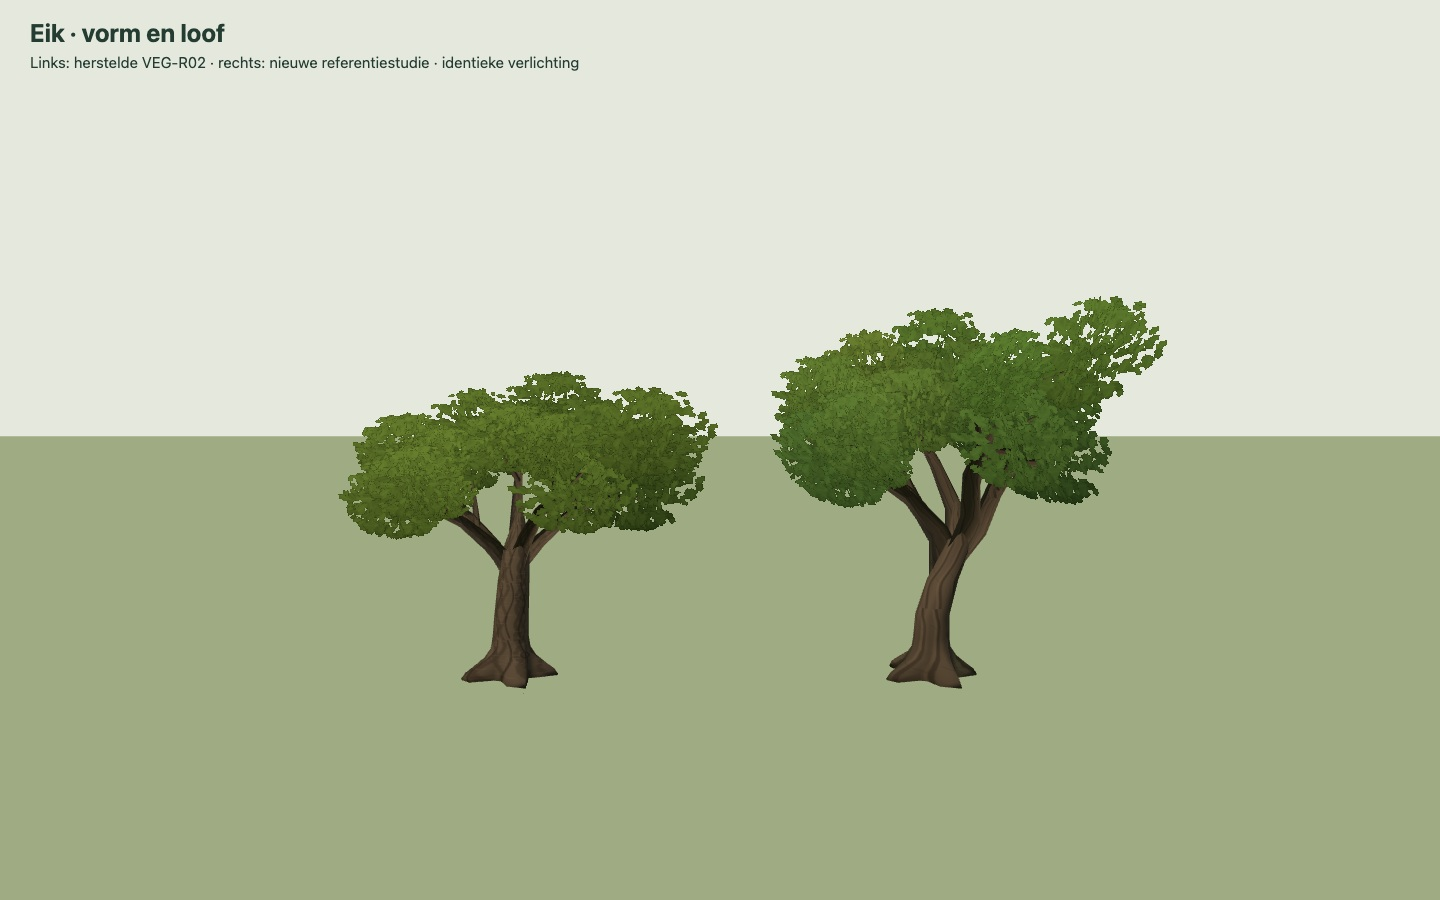
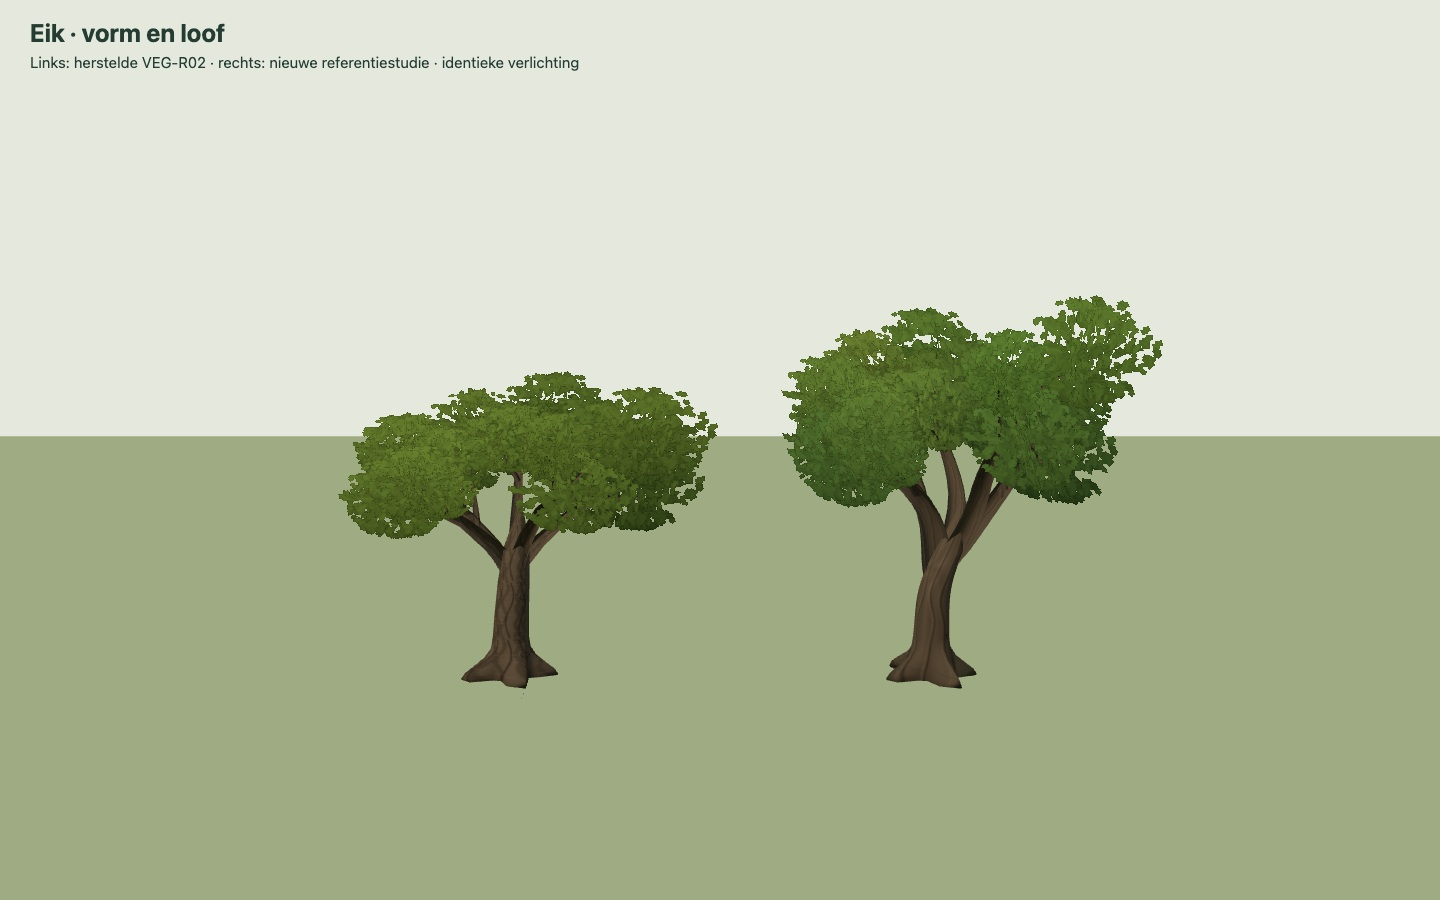
Smooth oak trunk curvature and repeating bark flow

Changed region(s): [[0.5312, 0.3111, 0.8125, 0.6844]]

diff --git a/src/world/woodkit.ts b/src/world/woodkit.ts
@@ -287,14 +287,14 @@ function flareK(a: number, y: number, lobes: { a: number; w: number }[], flare: 
   return k + F * 0.08 * (1 + Math.sin(a * 3 + 1.3)) * 0.5; // a little general swell between the ridges
 }
 
-function flaredTrunk(path: P3[], radius: (t: number) => number, lobes: { a: number; w: number }[], flare: number, flareH: number, radial: number, rows: number, vScale: number) {
+function flaredTrunk(path: P3[], radius: (t: number) => number, lobes: { a: number; w: number }[], flare: number, flareH: number, radial: number, rows: number, vScale: number, detailedFlare = rows >= 6) {
   const curve = new THREE.CatmullRomCurve3(path.map(vec), false, 'centripetal');
   const len = curve.getLength();
   const pos: number[] = [], uv: number[] = [], idx: number[] = [];
   const P = new THREE.Vector3();
   // ring heights: dense through the flare (where the buttresses change fastest), then even up the trunk
   const y0 = path[0][1], y1 = path[path.length - 1][1], base = [y0, -0.2, 0, 0.14, 0.3, 0.48, 0.7, 0.95, flareH + 0.25].filter((y) => y > y0 && y < y1 - 0.5);
-  const fine = rows < 6 ? base.filter((_, i) => i % 3 === 0) : base; // coarse LODs: every third flare ring
+  const fine = !detailedFlare ? base.filter((_, i) => i % 3 === 0) : base; // coarse LODs: every third flare ring
   const top = fine[fine.length - 1] ?? y0, ys = [y0, ...fine.filter((y) => y > y0)];
   const rest = Math.max(1, rows - ys.length + 1);
   for (let i = 1; i <= rest; i++) ys.push(top + ((y1 - top) * i) / rest);
@@ -398,14 +398,14 @@ function growBroadleaf(sp: Broadleaf): Skeleton {
   return { trunk: { path: trunkPath, radius, lobes }, branches, clusters };
 }
 
-function emitBroadleaf(sp: Broadleaf, sk: Skeleton, lod: Lod, continuous: boolean | 'outline' = false): Model {
+function emitBroadleaf(sp: Broadleaf, sk: Skeleton, lod: Lod, continuous: boolean | 'outline' = false, smoothFork = false): Model {
   const near = lod === 'near', xfar = lod === 'xfar', far = lod === 'far' || xfar;
   const girth = THREE.MathUtils.clamp(sp.trunk[0] / 0.45, 0.6, 1); // slim trunks need fewer sides
-  const wood: THREE.BufferGeometry[] = [flaredTrunk(sk.trunk.path, sk.trunk.radius, sk.trunk.lobes, sp.flare, 1.25, xfar ? 5 : Math.round((near ? 20 : far ? 6 : 9) * girth), near ? 11 : far ? 3 : 4, sp.vScale)];
+  const wood: THREE.BufferGeometry[] = [flaredTrunk(sk.trunk.path, sk.trunk.radius, sk.trunk.lobes, sp.flare, 1.25, xfar ? 5 : Math.round((near ? 20 : far ? 6 : 9) * girth), smoothFork ? (near ? 28 : far ? 9 : 16) : near ? 11 : far ? 3 : 4, sp.vScale, near)];
   for (const b of sk.branches) {
     if (!near && b.level === 2) continue; // mid/far: limbs only; side branches are hidden in the foliage at that distance
     if (xfar && !continuous) continue; // continuity prototype retains the primary branch skeleton
-    wood.push(taperTube(b.pts, b.r, { radial: near ? (b.level === 1 ? 6 : 3) : far ? 3 : 4, rows: near ? (b.level === 1 ? 4 : 3) : far ? 1 : 2, vScale: 1.2 }));
+    wood.push(taperTube(b.pts, b.r, { radial: near ? (b.level === 1 ? 6 : 3) : far ? 3 : 4, rows: smoothFork ? (near ? (b.level === 1 ? 12 : 5) : far ? 4 : 7) : near ? (b.level === 1 ? 4 : 3) : far ? 1 : 2, vScale: 1.2 }));
   }
   const crownC = sk.clusters.reduce((s, k) => s.add(k.c), new THREE.Vector3()).divideScalar(sk.clusters.length);
   const crownR = Math.max(...sk.clusters.map((k) => k.c.distanceTo(crownC) + Math.max(...k.r)));
@@ -478,7 +478,7 @@ export function referenceTreeModel(species: TreeSpecies, variant: number, lod: L
 export function oakSculptModel(variant: number, lod: Lod, continuous: boolean | 'outline' = 'outline'): Model {
   const v = ((variant % 3) + 3) % 3, original = OAKS[v];
   const sp = { ...original, limbR: .84, limbArch: .46, limbEl: [original.limbEl[0] + .10, original.limbEl[1] + .08] as [number, number] };
-  const sk = growBroadleaf(sp), model = emitBroadleaf(sp, sk, lod, continuous);
+  const sk = growBroadleaf(sp), model = emitBroadleaf(sp, sk, lod, continuous, true);
   model.leaves.dispose();
   const palettes = [
     { shade: '#35553b', green: '#6d963f', warm: '#afa144', warmth: .28 },
@@ -494,7 +494,8 @@ export function oakSculptModel(variant: number, lod: Lod, continuous: boolean | 
       const t = THREE.MathUtils.smoothstep(y, 1.6, 4.7);
       const angle = t * (.18 * Math.sin(y * .48 + v * 1.9));
       const c = Math.cos(angle), s = Math.sin(angle);
-      const bend = THREE.MathUtils.smoothstep(y, 1.6, 3.0) * .70 * Math.sin((y - 1.6) * 1.0 + v * 1.7);
+      // Ease into the bend without introducing a short, sharp change of curvature above the straight foot.
+      const bend = THREE.MathUtils.smoothstep(y, 1.6, 4.2) * .70 * Math.sin((y - 1.6) * .70 + v * 1.7);
       p.setXYZ(i, c * x - s * z + bend, y + Math.max(0, y - original.H) * .25,
         s * x + c * z + t * .21 * Math.sin(y * .7 + v));
       if (g === model.leaves) {
@@ -508,6 +509,16 @@ export function oakSculptModel(variant: number, lod: Lod, continuous: boolean | 
       const uv = g.attributes.uv as THREE.BufferAttribute;
       for (let i = 0; i < uv.count; i++) uv.setX(i, 16 + uv.getX(i));
       g.computeVertexNormals();
+      // UV seam vertices are separate, but must share a normal to avoid a hard lighting stripe.
+      const sums = new Map<string, THREE.Vector3>();
+      const keyAt = (i: number) => `${Math.round(p.getX(i) * 1e5)},${Math.round(p.getY(i) * 1e5)},${Math.round(p.getZ(i) * 1e5)}`;
+      for (let i = 0; i < p.count; i++) {
+        const key = keyAt(i), sum = sums.get(key) ?? new THREE.Vector3();
+        sum.add(new THREE.Vector3().fromBufferAttribute(normals, i)); sums.set(key, sum);
+      }
+      for (let i = 0; i < p.count; i++) {
+        const n = sums.get(keyAt(i))!.clone().normalize(); normals.setXYZ(i, n.x, n.y, n.z);
+      }
       const colours = g.attributes.color as THREE.BufferAttribute;
       for (let i = 0; i < p.count; i++) {
         const x = p.getX(i), y = p.getY(i), z = p.getZ(i), a = Math.atan2(z, x);
@@ -1303,9 +1314,12 @@ export function woodMats(): WoodMats {
   const oakBark = TREE_ART === 'oak-r03' ? canvasTex(256, 512, (x, r) => {
     // Long, softly bevelled furrows follow the trunk, with a few interrupted bark seams.
     x.fillStyle = grey(.82); x.fillRect(0, 0, 256, 512);
-    for (let col = -1; col < 10; col++) {
-      const cx = col * 29 + r() * 5, phase = r() * 6.28, width = 3 + r() * 3;
-      const line = (y: number) => cx + Math.sin(y * .014 + phase) * 7 + Math.sin(y * .031 + phase) * 2;
+    for (let col = 0; col < 8; col++) {
+      const cx = col * 32 + r() * 5, phase = r() * 6.28, width = 3 + r() * 3;
+      // Exact periods join the grooves across the repeated tile in both directions.
+      const line = (y: number) => cx + Math.sin(y * Math.PI * 2 / 512 + phase) * 7 + Math.sin(y * Math.PI * 4 / 512 + phase) * 2;
+      for (const wrap of [-256, 0, 256]) {
+      x.save(); x.translate(wrap, 0);
       x.fillStyle = grey(.60 + r() * .07); x.beginPath();
       for (let y = -16; y <= 528; y += 16) { if (y === -16) x.moveTo(line(y), y); else x.lineTo(line(y), y); }
       for (let y = 528; y >= -16; y -= 16) x.lineTo(line(y) + width, y);
@@ -1318,13 +1332,14 @@ export function woodMats(): WoodMats {
         const y = 80 + i * 240 + r() * 55;
         x.strokeStyle = grey(.67, .65); x.lineWidth = 1.5; x.beginPath(); x.moveTo(line(y), y); x.quadraticCurveTo(line(y) + 12, y - 9, line(y) + 22, y - 35); x.stroke();
       }
+      x.restore();
+      }
     }
     for (const [cx, cy] of [[56, 160], [184, 395]]) {
       x.strokeStyle = grey(.62); x.lineWidth = 3; x.beginPath(); x.ellipse(cx,cy,9,22,.2,0,Math.PI*2); x.stroke();
       x.fillStyle = grey(.52); x.beginPath(); x.ellipse(cx,cy,3,10,.2,0,Math.PI*2); x.fill();
     }
   }, 23017) : null;
-  if (oakBark) oakBark.wrapS = THREE.ClampToEdgeWrapping;
   // foliage UVs (u ≥ LEAF_U) repeat inside the leaf column; gradients from the unwrapped UV keep mip selection
   // continuous across the wrap (no seams); bark UVs are sampled as usual
   tree.onBeforeCompile = (sh) => {
@@ -1333,7 +1348,7 @@ export function woodMats(): WoodMats {
     sh.fragmentShader = sh.fragmentShader.replace('#include <map_fragment>', `#ifdef USE_MAP
   vec2 tUv = vMapUv;
   vec4 sampledDiffuseColor;
-  ${oakBark ? 'if (tUv.x > 15.0 && tUv.x < 17.0) { sampledDiffuseColor = texture2D(flwOakBark, vec2((tUv.x - 16.0) * 4.0, tUv.y * .65)); } else' : ''}
+  ${oakBark ? `if (tUv.x > 15.0 && tUv.x < 17.0) { sampledDiffuseColor = texture2D(flwOakBark, vec2(((tUv.x - 16.0) * 4.0 - ${GUT}) / ${1 - 2 * GUT}, tUv.y * .65)); } else` : ''}
   ${sprays ? `if (tUv.x > 127.0) { ${SPRAY_SAMPLE} sampledDiffuseColor = texture2D(flwSprays, flwAtlasUv); if (sampledDiffuseColor.a < 0.4) discard; } else` : ''}
   if (tUv.x > ${(LEAF_U / 2).toFixed(1)}) {
     vec2 lUv = vec2(fract(tUv.x), tUv.y * 0.5);

diff --git a/docs/veg-r03/oak/README.md b/docs/veg-r03/oak/README.md
@@ -16,15 +16,15 @@ The existing recovered style remains the default. The candidate is selected with
 
 ## Checks
 
-Typecheck, all 303 unit tests, the four unchanged budget-policy tests and production build pass (existing bundle-size warning). The two added model tests check lower-trunk compatibility, finite/bounded geometry, stable mid/far position and colour, and distinct palettes. The model topology budget is unchanged.
+Typecheck, all 303 unit tests, the four unchanged budget-policy tests and production build pass (existing bundle-size warning). The two added model tests check lower-trunk compatibility, finite/bounded geometry, stable mid/far position and colour, and distinct palettes. The flow correction increases longitudinal trunk/branch sampling; foliage topology is unchanged.
 
 Twelve fresh game render records: three poses × recovered/candidate × multi-draw/instanced. No recorded page errors, console errors, shader failures or WebGL errors. Placement inventories match and candidate low-quality camera triangles match between rendering paths.
 
 | View | Recovered triangles | Candidate triangles | Candidate calls multi / fallback |
 | --- | ---: | ---: | ---: |
-| dense | 309,354 | 309,354 | 59 / 119 |
-| garden | 185,216 | 185,216 | 25 / 52 |
-| boslust | 351,322 | 351,628 | 91 / 138 |
+| dense | 309,354 | 340,384 | 59 / 119 |
+| garden | 185,216 | 192,544 | 25 / 52 |
+| boslust | 351,322 | 378,718 | 91 / 138 |
 
 All three sampled candidate views fit the existing 150-call / 750k ceiling. This is a small comparison matrix, not an estate-wide, portrait, full puzzle-route or physical-phone acceptance test. No budget threshold was changed. Crown silhouettes changed, so sign/clue visibility still needs a complete route review before activation.
 
@@ -33,3 +33,10 @@ Reproduce with `CHROMIUM_EXECUTABLE_PATH=/path/to/chromium node scripts/veg-r03-
 ## Next art passes
 
 Review the oak form and colour grouping, then refine beech with smoother grey bark and its own rounded branching; pine with a taller trunk, warm upper bark and evergreen needle shelves; keep birch as the accepted style anchor and add restrained green/yellow variation. After the tree pass, continue with bushes, logs/stumps, ground plants and grass, with each family judged in the actual game.
+
+
+## Focused bark-flow correction
+
+Owner feedback identified broken flow on the main trunk. The correction adds longitudinal samples through the S-bend and primary forks, eases the bend over a longer interval, averages normals across coincident UV seam vertices, makes the painted grooves periodic in both texture directions, and removes gutter cropping from the dedicated repeating oak bark tile. This addresses angular interpolation and visible repeat/lighting seams. The fork still consists of intersecting trunk/branch surfaces; this is not a claim of a fully retopologized junction.
+
+`before-flow-fix.jpg` preserves the previous trunk comparison. `trunks.jpg` is the corrected comparison (recovered left/corrected right). The lower trunk/attachment regression check and all 303 tests pass. More samples add geometry, so the latest game counts below supersede the earlier claim of unchanged model cost. Physical-device tests remain outstanding.
